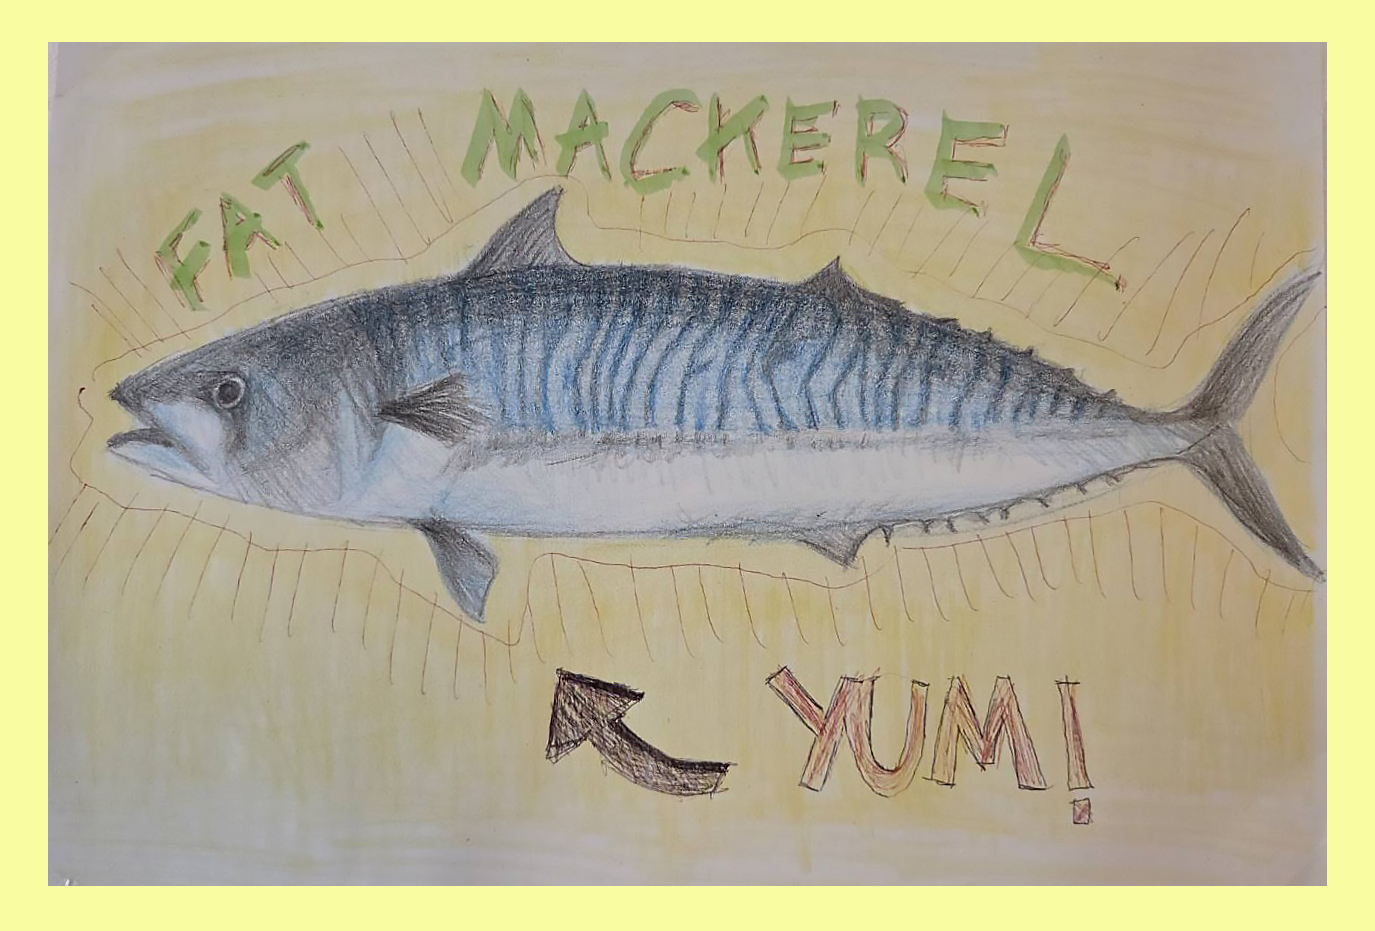
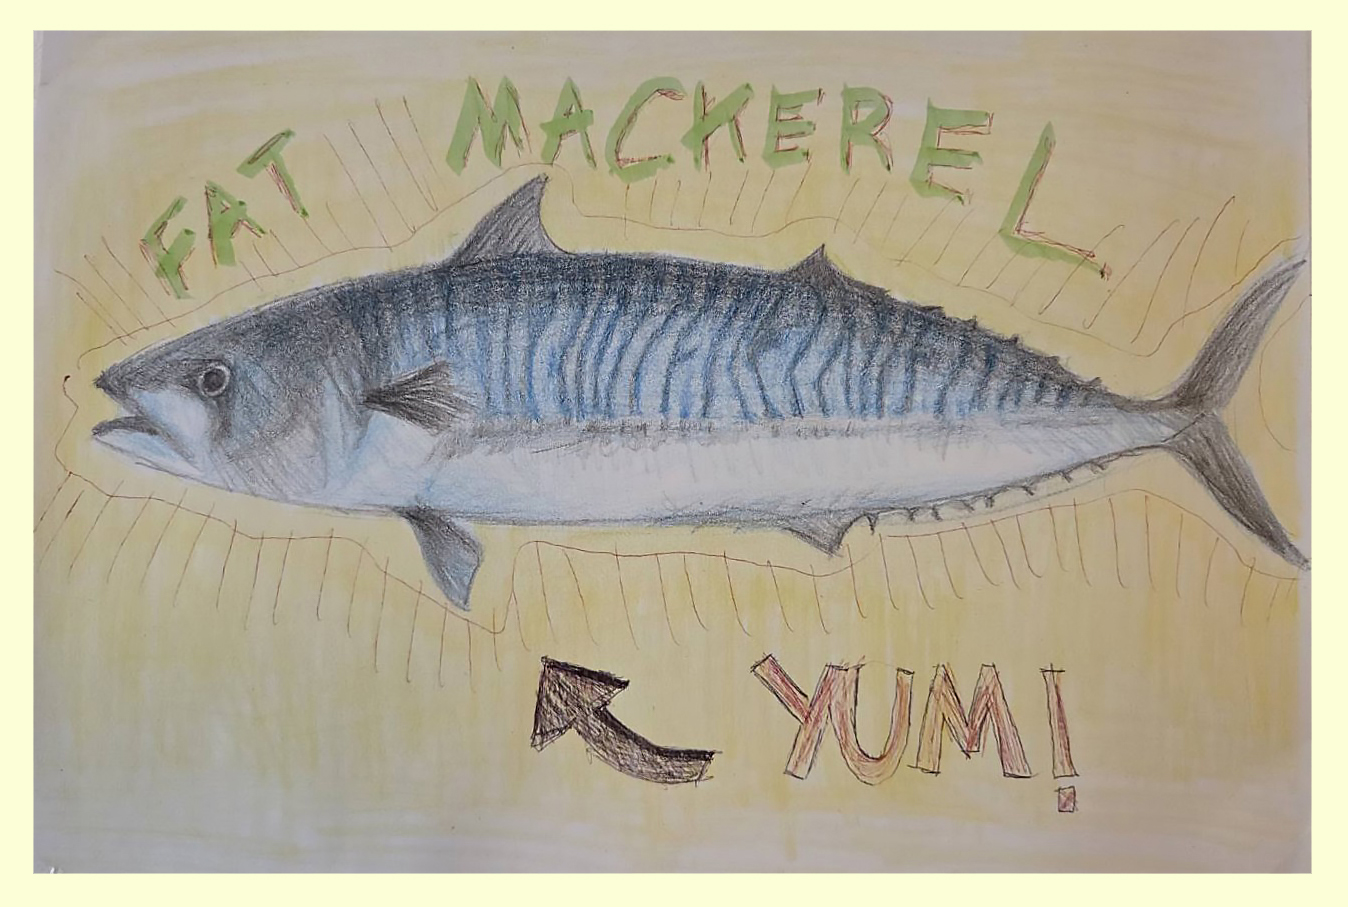
Add four new artworks and refresh edited gallery images

diff --git a/art-work.html b/art-work.html
@@ -48,77 +48,105 @@
 
       <section class="art-gallery" aria-label="Selected artwork">
         <figure class="art-piece">
-          <a class="art-image-link" href="assets/images/art/78916.jpg?v=0b77a521696a" aria-label="View Frogs full size" data-art-index="0">
-            <img src="assets/images/art/78916.jpg?v=0b77a521696a" alt="Colourful spotted frogs painted against a yellow background" width="1044" height="1029" loading="eager" decoding="async">
+          <a class="art-image-link" href="assets/images/art/bear.jpg?v=2bd98af469d9" aria-label="View Bear &amp; Fish full size" data-art-index="0">
+            <img src="assets/images/art/bear.jpg?v=2bd98af469d9" alt="Pen drawing of a bear holding a fish, with purple, red, and yellow details" width="1192" height="1393" loading="eager" decoding="async">
+            <span class="art-view-hint" aria-hidden="true">View artwork ↗</span>
+          </a>
+          <figcaption>Bear &amp; Fish</figcaption>
+        </figure>
+        <figure class="art-piece">
+          <a class="art-image-link" href="assets/images/art/fish.jpg?v=7904b545fb60" aria-label="View Red Fish full size" data-art-index="1">
+            <img src="assets/images/art/fish.jpg?v=7904b545fb60" alt="Red fish with a raised spiny dorsal fin against a pale blue background" width="1424" height="1045" loading="eager" decoding="async">
+            <span class="art-view-hint" aria-hidden="true">View artwork ↗</span>
+          </a>
+          <figcaption>Red Fish</figcaption>
+        </figure>
+        <figure class="art-piece">
+          <a class="art-image-link" href="assets/images/art/house.jpg?v=9a13f25e167a" aria-label="View Mountain Cabin full size" data-art-index="2">
+            <img src="assets/images/art/house.jpg?v=9a13f25e167a" alt="Watercolour of a wooden cabin, fenced meadow, pond, and green mountains" width="1168" height="1272" loading="eager" decoding="async">
+            <span class="art-view-hint" aria-hidden="true">View artwork ↗</span>
+          </a>
+          <figcaption>Mountain Cabin</figcaption>
+        </figure>
+        <figure class="art-piece">
+          <a class="art-image-link" href="assets/images/art/sell.jpg?v=3dc274b6406a" aria-label="View Beach Vendor full size" data-art-index="3">
+            <img src="assets/images/art/sell.jpg?v=3dc274b6406a" alt="Watercolour of a beach vendor pushing a yellow cart beneath an orange umbrella" width="1448" height="984" loading="lazy" decoding="async">
+            <span class="art-view-hint" aria-hidden="true">View artwork ↗</span>
+          </a>
+          <figcaption>Beach Vendor</figcaption>
+        </figure>
+        <figure class="art-piece">
+          <a class="art-image-link" href="assets/images/art/78916.jpg?v=c44316cc3ffc" aria-label="View Frogs full size" data-art-index="4">
+            <img src="assets/images/art/78916.jpg?v=c44316cc3ffc" alt="Colourful spotted frogs painted against a yellow background" width="1023" height="1008" loading="lazy" decoding="async">
             <span class="art-view-hint" aria-hidden="true">View artwork ↗</span>
           </a>
           <figcaption>Frogs</figcaption>
         </figure>
         <figure class="art-piece">
-          <a class="art-image-link" href="assets/images/art/78844.jpg?v=40490223969d" aria-label="View Hönö Island full size" data-art-index="1">
-            <img src="assets/images/art/78844.jpg?v=40490223969d" alt="Watercolour of the rocky shoreline, sea, and grasses on Hönö Island" width="1296" height="1017" loading="eager" decoding="async">
+          <a class="art-image-link" href="assets/images/art/78844.jpg?v=40490223969d" aria-label="View Hönö Island full size" data-art-index="5">
+            <img src="assets/images/art/78844.jpg?v=40490223969d" alt="Watercolour of the rocky shoreline, sea, and grasses on Hönö Island" width="1296" height="1017" loading="lazy" decoding="async">
             <span class="art-view-hint" aria-hidden="true">View artwork ↗</span>
           </a>
           <figcaption>Hönö Island</figcaption>
         </figure>
         <figure class="art-piece">
-          <a class="art-image-link" href="assets/images/art/78496.jpg?v=23071a91d1b2" aria-label="View Daffodils full size" data-art-index="2">
-            <img src="assets/images/art/78496.jpg?v=23071a91d1b2" alt="Yellow daffodil flowers against a purple background" width="1224" height="1597" loading="eager" decoding="async">
+          <a class="art-image-link" href="assets/images/art/78496.jpg?v=3d62d0fab738" aria-label="View Daffodils full size" data-art-index="6">
+            <img src="assets/images/art/78496.jpg?v=3d62d0fab738" alt="Yellow daffodil flowers against a purple background" width="1224" height="1597" loading="lazy" decoding="async">
             <span class="art-view-hint" aria-hidden="true">View artwork ↗</span>
           </a>
           <figcaption>Daffodils</figcaption>
         </figure>
         <figure class="art-piece">
-          <a class="art-image-link" href="assets/images/art/78500.jpg?v=4b34eca985fe" aria-label="View Bodensee Lighthouse, Germany full size" data-art-index="3">
-            <img src="assets/images/art/78500.jpg?v=4b34eca985fe" alt="Sketch of the Bodensee lighthouse in Germany" width="1022" height="1309" loading="eager" decoding="async">
+          <a class="art-image-link" href="assets/images/art/78500.jpg?v=2fb3ece66de5" aria-label="View Bodensee Lighthouse, Germany full size" data-art-index="7">
+            <img src="assets/images/art/78500.jpg?v=2fb3ece66de5" alt="Sketch of the Bodensee lighthouse in Germany" width="968" height="1276" loading="lazy" decoding="async">
             <span class="art-view-hint" aria-hidden="true">View artwork ↗</span>
           </a>
           <figcaption>Bodensee Lighthouse, Germany</figcaption>
         </figure>
         <figure class="art-piece">
-          <a class="art-image-link" href="assets/images/art/78495_0.jpg?v=ec033a155e92" aria-label="View Frog Trippin’ full size" data-art-index="4">
-            <img src="assets/images/art/78495_0.jpg?v=ec033a155e92" alt="Green frog surrounded by colourful flowers and flowing patterns" width="1252" height="1613" loading="eager" decoding="async">
+          <a class="art-image-link" href="assets/images/art/78495_0.jpg?v=ec033a155e92" aria-label="View Frog Trippin’ full size" data-art-index="8">
+            <img src="assets/images/art/78495_0.jpg?v=ec033a155e92" alt="Green frog surrounded by colourful flowers and flowing patterns" width="1252" height="1613" loading="lazy" decoding="async">
             <span class="art-view-hint" aria-hidden="true">View artwork ↗</span>
           </a>
           <figcaption>Frog Trippin’</figcaption>
         </figure>
         <figure class="art-piece">
-          <a class="art-image-link" href="assets/images/art/78501.jpg?v=298e4c1d825c" aria-label="View Friedhof Mülln full size" data-art-index="5">
+          <a class="art-image-link" href="assets/images/art/78501.jpg?v=298e4c1d825c" aria-label="View Friedhof Mülln full size" data-art-index="9">
             <img src="assets/images/art/78501.jpg?v=298e4c1d825c" alt="Sketch of the tower and rooftop at Friedhof Mülln" width="1000" height="957" loading="lazy" decoding="async">
             <span class="art-view-hint" aria-hidden="true">View artwork ↗</span>
           </a>
           <figcaption>Friedhof Mülln</figcaption>
         </figure>
         <figure class="art-piece">
-          <a class="art-image-link" href="assets/images/art/78493_0.jpg?v=1a59a2290085" aria-label="View Happy Ducks full size" data-art-index="6">
+          <a class="art-image-link" href="assets/images/art/78493_0.jpg?v=1a59a2290085" aria-label="View Happy Ducks full size" data-art-index="10">
             <img src="assets/images/art/78493_0.jpg?v=1a59a2290085" alt="Two happy duck sketches surrounded by small flowers" width="1244" height="1609" loading="lazy" decoding="async">
             <span class="art-view-hint" aria-hidden="true">View artwork ↗</span>
           </a>
           <figcaption>Happy Ducks</figcaption>
         </figure>
         <figure class="art-piece">
-          <a class="art-image-link" href="assets/images/art/78498.jpg?v=6723b8702aa8" aria-label="View I Love Mackerel full size" data-art-index="7">
-            <img src="assets/images/art/78498.jpg?v=6723b8702aa8" alt="Mackerel drawing with playful lettering on a yellow background" width="1375" height="931" loading="lazy" decoding="async">
+          <a class="art-image-link" href="assets/images/art/78498.jpg?v=bfb802f941b2" aria-label="View I Love Mackerel full size" data-art-index="11">
+            <img src="assets/images/art/78498.jpg?v=bfb802f941b2" alt="Mackerel drawing with playful lettering on a yellow background" width="1348" height="907" loading="lazy" decoding="async">
             <span class="art-view-hint" aria-hidden="true">View artwork ↗</span>
           </a>
           <figcaption>I Love Mackerel</figcaption>
         </figure>
         <figure class="art-piece">
-          <a class="art-image-link" href="assets/images/art/78494_0.jpg?v=8b5bf312c76d" aria-label="View Poison Blue Ring full size" data-art-index="8">
+          <a class="art-image-link" href="assets/images/art/78494_0.jpg?v=8b5bf312c76d" aria-label="View Poison Blue Ring full size" data-art-index="12">
             <img src="assets/images/art/78494_0.jpg?v=8b5bf312c76d" alt="Blue-ringed octopus drawing with curling arms" width="1244" height="1621" loading="lazy" decoding="async">
             <span class="art-view-hint" aria-hidden="true">View artwork ↗</span>
           </a>
           <figcaption>Poison Blue Ring</figcaption>
         </figure>
         <figure class="art-piece">
-          <a class="art-image-link" href="assets/images/art/78499.jpg?v=52043013fcc4" aria-label="View Human &amp; Animal Features full size" data-art-index="9">
+          <a class="art-image-link" href="assets/images/art/78499.jpg?v=52043013fcc4" aria-label="View Human &amp; Animal Features full size" data-art-index="13">
             <img src="assets/images/art/78499.jpg?v=52043013fcc4" alt="Human portrait and animal feature sketches arranged on a sketchbook spread" width="1232" height="891" loading="lazy" decoding="async">
             <span class="art-view-hint" aria-hidden="true">View artwork ↗</span>
           </a>
           <figcaption>Human &amp; Animal Features</figcaption>
         </figure>
         <figure class="art-piece">
-          <a class="art-image-link" href="assets/images/art/78497.jpg?v=43513e5974a5" aria-label="View I Want to Set Sail · My Philodendron · Yak full size" data-art-index="10">
+          <a class="art-image-link" href="assets/images/art/78497.jpg?v=43513e5974a5" aria-label="View I Want to Set Sail · My Philodendron · Yak full size" data-art-index="14">
             <img src="assets/images/art/78497.jpg?v=43513e5974a5" alt="Three colour studies of a sailboat, a philodendron, and a yak" width="485" height="1488" loading="lazy" decoding="async">
             <span class="art-view-hint" aria-hidden="true">View artwork ↗</span>
           </a>
